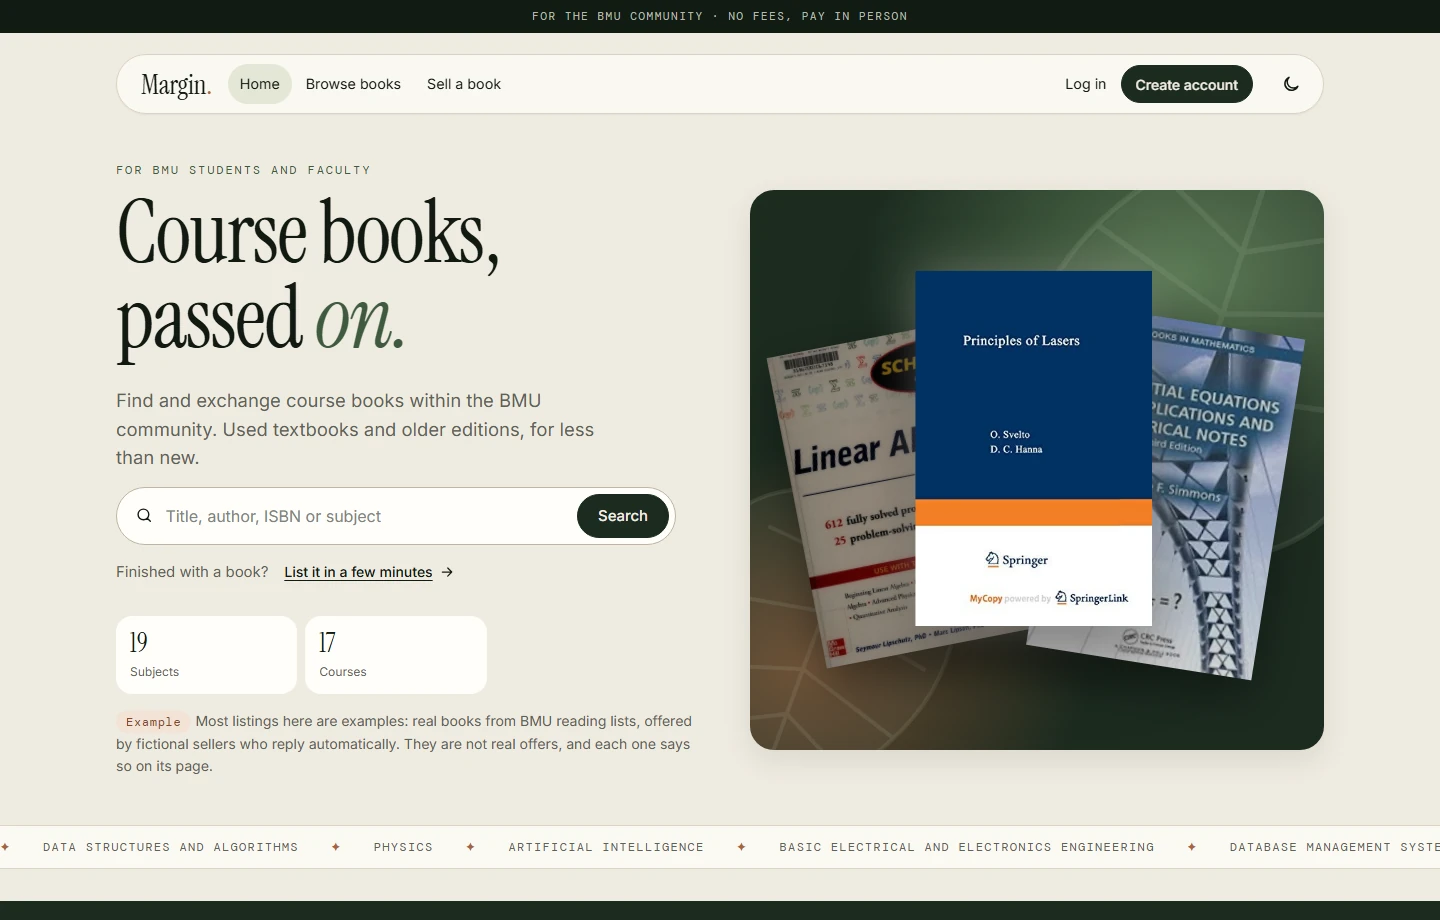
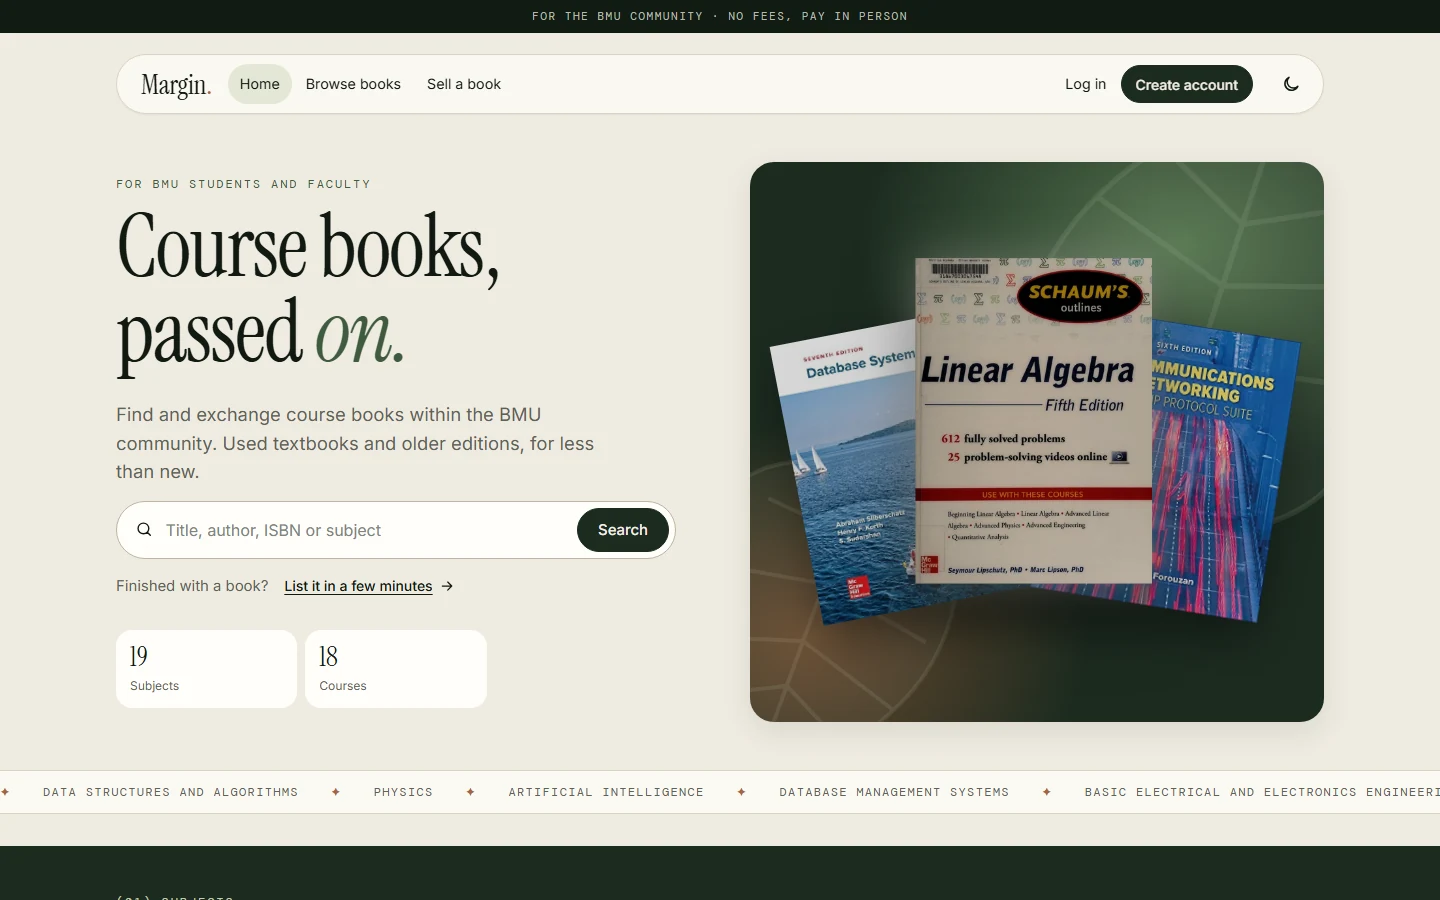
docs: refresh Margin README with latest UI and project showcase

diff --git a/README.md b/README.md
@@ -1,118 +1,114 @@
-<h1 align="center">Margin</h1>
-<p align="center"><strong>Course books, passed on.</strong></p>
-<p align="center">A used textbook marketplace for BML Munjal University students and faculty.</p>
+# Margin
 
-<p align="center">
-  <img src="https://img.shields.io/badge/React_19-087EA4?logo=react&amp;logoColor=white" alt="React 19">
-  <img src="https://img.shields.io/badge/Express_5-30363D?logo=express&amp;logoColor=white" alt="Express 5">
-  <img src="https://img.shields.io/badge/Node.js-356C39?logo=nodedotjs&amp;logoColor=white" alt="Node.js">
-  <img src="https://img.shields.io/badge/MongoDB-00684A?logo=mongodb&amp;logoColor=white" alt="MongoDB">
-</p>
+A campus-focused marketplace where students and faculty can buy, sell and exchange course books.
 
-![Margin homepage with textbook search and a showcase of course books](docs/assets/screenshots/homepage.webp)
+![Margin homepage with textbook search and featured books](docs/assets/screenshots/homepage.webp)
 
-<p align="center"><a href="#see-margin-in-action">Explore the marketplace</a> · <a href="#run-locally">Run locally</a></p>
+Margin serves the BML Munjal University community. The screenshots use fictional accounts, prices, and conversations.
 
-## See Margin in action
+## Features
 
-### Start with a subject
+- **Discover books.** Browse subject shelves or search by title, author, ISBN, subject, or course. Filter by semester, edition, condition, price, or seller role.
+- **Choose a copy.** Compare listing photos, editions, and prices, visit seller profiles, and save books to your wishlist.
+- **Sell course books.** Publish listings with up to six photos. Edit, pause, reactivate, or remove them from My Listings.
+- **Buy or negotiate.** Send a Buy Now request at the listed price or message the seller to make an offer and exchange counteroffers. Track open requests and review finished purchases and sales.
+- **Moderate the marketplace.** Members can report listings and users. Administrators review reports, manage listings and accounts, and review moderation activity.
 
-Jump from the homepage to a subject shelf, or search by title, author, ISBN, subject, or course. Narrow the results by semester, condition, price, edition, or seller role.
+The layout adapts to phones, tablets, and desktops, with light and dark themes.
 
-![Homepage subject categories with listing counts](docs/assets/screenshots/subject-categories.webp)
-
-![Marketplace with search, filters, prices, and textbook covers](docs/assets/screenshots/marketplace.webp)
-
-### Find the right copy
-
-Check the edition, condition, and asking price before contacting the seller. Save promising copies to your wishlist.
-
-![Book details with cover, edition, seller, price, and purchase actions](docs/assets/screenshots/book-details.webp)
-
-![Wishlist showing a saved course book](docs/assets/screenshots/wishlist.webp)
-
-### Agree on a price and meet on campus
-
-**Buy now** sends a request at the listed price. You can also make an offer and exchange counteroffers in the book's chat. Once the seller accepts, the book is reserved. Payment and handover happen in person.
-
-![Buy Now confirmation explaining the purchase request and in-person payment](docs/assets/screenshots/buy-now.webp)
-
-![A book conversation showing an accepted request and a reply from a fictional example seller](docs/assets/screenshots/seller-messaging.webp)
-
-### Pass on a book
-
-Create a student or faculty account, then publish a listing with up to six photos, the book's condition, its course or subject, and your asking price.
-
-<p align="center">
-  <img src="docs/assets/screenshots/login.webp" width="47%" alt="Margin login form">
-  <img src="docs/assets/screenshots/registration.webp" width="47%" alt="Student and faculty registration form">
-</p>
-
-![Create listing form showing textbook details, subject, semester, and asking price](docs/assets/screenshots/create-listing.webp)
-
-### Also built in
-
-- **Stay up to date** with notifications, purchase requests, and exchange history.
-- **Report a listing or user** for administrator review. Admins can manage reports, listings, and accounts.
-- **Browse in light or dark mode** on phones and desktops.
-
-## Technology stack
-
-- **Frontend** · React 19, Vite, React Router
-- **Backend** · Node.js, Express 5, Zod
-- **Database** · MongoDB with Mongoose
-- **Authentication** · bcrypt password hashing, JWT sessions in HTTP-only cookies, and optional Google sign-in
-
-## Run locally
-
-Requires **Node.js 22.12+** and a running **MongoDB 6.0+** instance. From the repository root:
-
-```bash
-npm install
-cp server/.env.example server/.env
-node -e "console.log(require('node:crypto').randomBytes(48).toString('hex'))"
-```
-
-In PowerShell, use `Copy-Item server/.env.example server/.env` for the copy step. Paste the generated value into `JWT_SECRET` in `server/.env`, and set `MONGODB_URI` to your database connection string. The template points to local MongoDB.
-
-```bash
-npm run seed:demo  # optional, adds the example marketplace to a local database
-npm run dev
-```
-
-Open [localhost:5173](http://localhost:5173). The API runs on port 5000 by default. The screenshots use real books from BMU reading lists with fictional sellers and example prices.
+![Marketplace with search, filters, cover images, and prices](docs/assets/screenshots/marketplace.webp)
 
 <details>
-<summary>Demo data, testing, and deployment</summary>
+<summary>See subject shelves, listing details, wishlists, and seller profiles</summary>
 
-- **Demo catalogue** · Seeding is safe to rerun. For optional Open Library covers, run `node server/demo/verify-catalog.js --online` before seeding. Example sellers reply automatically in chat. Run `npm run demo:remove` to clear sample records and their activity. See the [catalogue review](server/demo/extraction-summary.md) for provenance.
-- **Tests** · With MongoDB running, use `npm test` for the API suite. For browser tests, run `npx -w e2e playwright install chromium`, `npm run build`, then `npm run test:e2e`. Each suite uses a separate test database.
-- **Production** · Run `npm run build`, then start with `NODE_ENV=production npm start` (PowerShell: `$env:NODE_ENV='production'; npm start`). Express serves the build. Use HTTPS for secure session cookies and set `TRUST_PROXY` to match your deployment.
-- **Optional services** · The [environment template](server/.env.example) lists settings for Google sign-in, password-reset email, and Cloudinary uploads. Faculty roles are self-declared and email addresses are unverified.
-- **Administration** · Create an administrator with `npm run create-admin -- "Admin Name" admin@example.edu "<password of at least 12 characters>"`. Preview subject migrations with `npm run migrate:subjects`.
+![Subject shelves with counts by subject](docs/assets/screenshots/subject-categories.webp)
+
+![Book details with price, condition, edition, and purchase actions](docs/assets/screenshots/book-details.webp)
+
+![Wishlist with three saved books](docs/assets/screenshots/wishlist.webp)
+
+![Seller profile with active book listings](docs/assets/screenshots/seller-profile.webp)
 
 </details>
 
-## Documentation
+## How Margin works
 
-Read the [final project report (PDF)](reports/Margin_Software_Engineering_Project_Report.pdf) or its [editable Word version](reports/Margin_Software_Engineering_Project_Report.docx). The [Software Engineering documentation](docs/README.md) includes the SRS, MoSCoW priorities, design, planning and test traceability.
+**Browse → Choose a book → Buy Now or negotiate in chat → Agree on a price → Arrange handover → Complete the exchange**
 
-The [MongoDB schema guide](reports/MongoDB_Schema_Explanation.md) explains the nine collections, references and unique indexes, with a [printable relationship diagram](reports/assets/mongodb-schema.svg). See the [publication checks](docs/04-Testing/evidence/publication-checks-2026-11-18.md) for the latest verification results.
+When the seller accepts the request, or the buyer accepts the seller’s counteroffer, the listing is reserved. Both parties arrange pickup in chat and settle payment in person. The seller marks the book as sold after handover, and the exchange appears in Transactions.
 
-## Project structure
+![Buyer–seller chat with an offer and a counteroffer](docs/assets/screenshots/seller-messaging.webp)
 
-```text
-client/       React app, pages, and shared components
-server/
-  src/        Express API, data models, and middleware
-  demo/       Reviewed course-book catalogue and seed logic
-  scripts/    Demo data and administration commands
-shared/       Subject catalogue used by the client and API
-e2e/          Playwright browser tests
-docs/         Requirements, design diagrams, planning, and test evidence
-reports/      Final academic report and database schema documentation
+<details>
+<summary>See Buy Now and transaction history</summary>
+
+![Buy Now confirmation showing the full-price request and in-person payment](docs/assets/screenshots/buy-now.webp)
+
+![Completed purchase with the request, acceptance, and completion timeline](docs/assets/screenshots/transaction-history.webp)
+
+</details>
+
+<details>
+<summary>See the listing form and administrator dashboard</summary>
+
+![Sell a book form with cover photo, book details, course, and asking price](docs/assets/screenshots/create-listing.webp)
+
+![Administrator dashboard with marketplace activity and links to moderation tools](docs/assets/screenshots/admin-dashboard.webp)
+
+</details>
+
+## Technology stack
+
+**Frontend** React and Vite · **API** Node.js and Express · **Database** MongoDB and Mongoose · **Browser testing** Playwright
+
+## Getting started
+
+Requires **Node.js 22.12 or later** and a running **MongoDB 6.0 or later** instance.
+
+```sh
+git clone https://github.com/akshat12bhardwaj/Margin.git
+cd Margin
+npm ci
+node -e "const fs = require('node:fs'); const secret = require('node:crypto').randomBytes(48).toString('hex'); const template = fs.readFileSync('server/.env.example', 'utf8'); fs.writeFileSync('server/.env', template.replace(/^JWT_SECRET=/m, 'JWT_SECRET=' + secret), { flag: 'wx' });"
 ```
 
----
+Keep an existing `server/.env` if you already have one. The template points to local MongoDB. Set `MONGODB_URI` in `server/.env` if your database uses a different connection string.
 
-Built by [Akshat Bhardwaj](https://github.com/akshat12bhardwaj) to help used course books find their next reader. Margin is an independent project with no affiliation with or endorsement from BML Munjal University.
+```sh
+npm run seed:demo
+npm run dev
+```
+
+Demo seeding is optional. It adds a sample catalogue with fictional sellers and automated replies. Open [localhost:5173](http://localhost:5173).
+
+## Testing
+
+Verified on **18 November 2026**. The production build succeeded, **67 of 67 API tests passed**, and **16 of 16 Chromium tests passed**.
+
+With local MongoDB running on port 27017, run from the repository root:
+
+```sh
+npm test
+npx -w e2e playwright install chromium
+npm run build
+npm run test:e2e
+```
+
+The API and browser suites reset their own test databases.
+
+## Documentation
+
+- [Software Engineering project report](reports/Margin_Software_Engineering_Project_Report.pdf)
+- [Database schema diagram](reports/assets/mongodb-schema.svg) and [schema guide](reports/MongoDB_Schema_Explanation.md)
+- [Software Requirements Specification](docs/01-SRS/SRS.md)
+- [Software design](docs/02-Software-Design/Software-Design.md)
+- [Test plan and report](docs/04-Testing/Test-Plan-and-Report.md) and [publication checks](docs/04-Testing/evidence/publication-checks-2026-11-18.md)
+
+## Contributors
+
+| Name | Enrollment Number |
+| --- | --- |
+| Akshat Bhardwaj | 240373 |
+| Abhishek Rana | 240366 |
+| Ali Zamaan | 240374 |
+| Bhanu Pratap Singh | 240423 |
